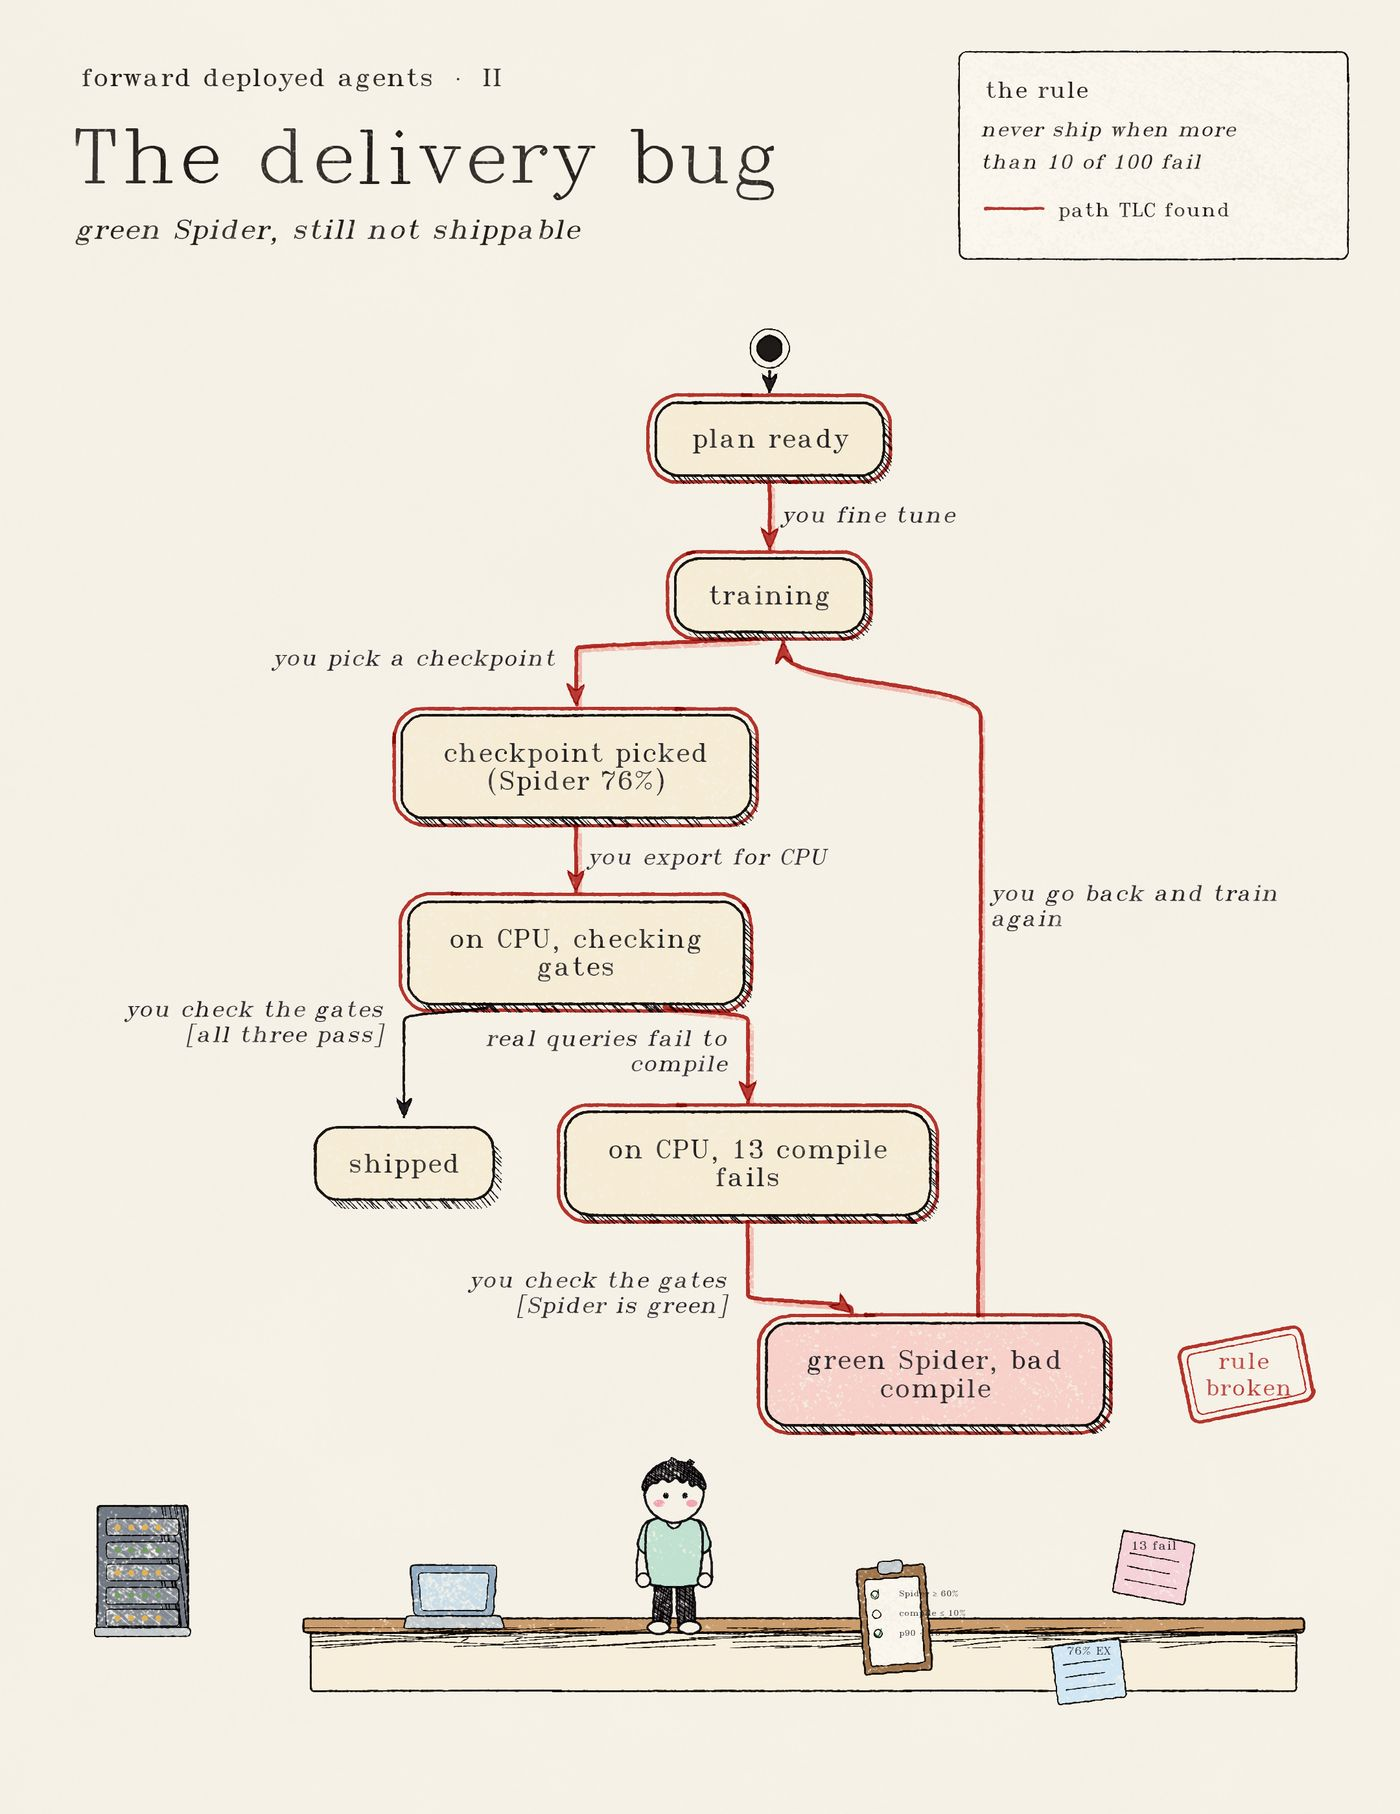
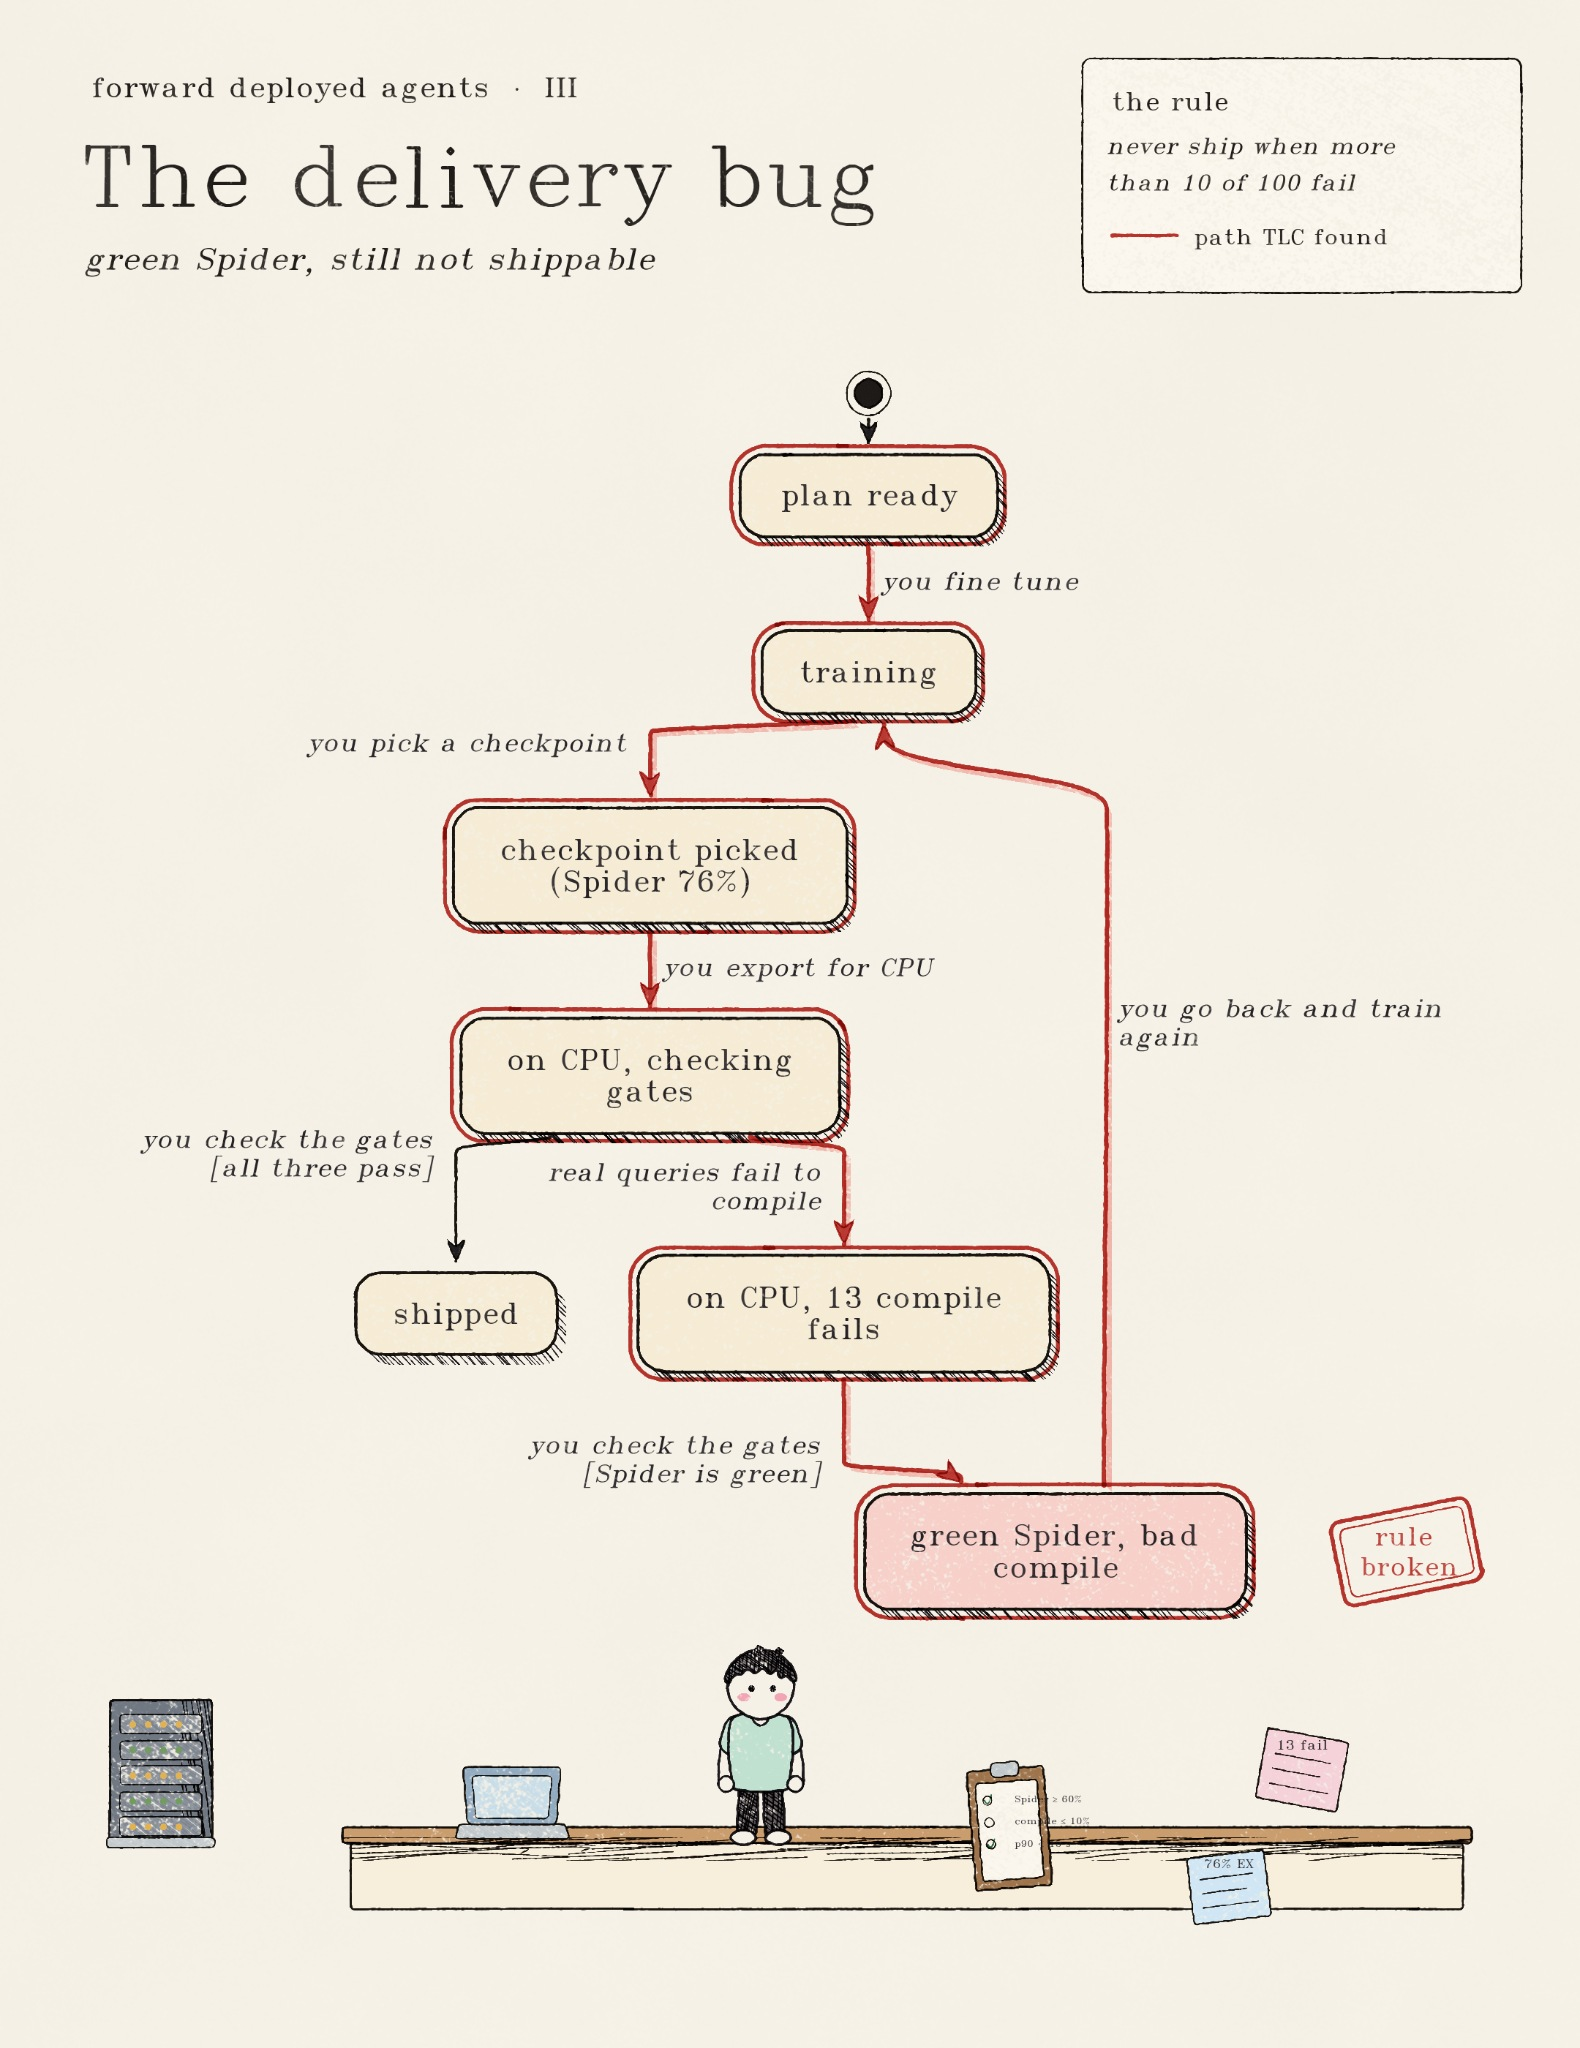
FDE article: replace paper figures with statechart and HTML tables

diff --git a/text2sql-handbook/approaches/ai-agents-forward-deployed-engineers-text-to-sql.html b/text2sql-handbook/approaches/ai-agents-forward-deployed-engineers-text-to-sql.html
@@ -87,10 +87,10 @@
           This piece walks you through that result the way I wish someone had walked me through it. Numbers come from their tables. The state charts are mine.
         </p>
       <div class="my-8">
-        <img src="../assets/images/ai-agents-forward-deployed-engineers-text-to-sql/fig1-overview.jpg"
-             alt="Figure 1 from the paper. Discovery dialogue produces a requirements document, then a planner and an execution loop post train a model and profile it on CPU."
+        <img src="../assets/images/ai-agents-forward-deployed-engineers-text-to-sql/statechart-overview.jpg"
+             alt="Plate I. The whole job. A vague brief becomes a discovery dialogue, then a requirements document, then a model checked against three gates. One path ships. The other path fails a gate and does not ship."
              class="w-full rounded-lg shadow-lg">
-        <p class="text-center text-sm text-secondary mt-2">Figure 1 from the paper. Left: the agent asks, inspects, and submits acceptance criteria. Right: plan, train, export for CPU, and check the gates.</p>
+        <p class="text-center text-sm text-secondary mt-2">Plate I. The whole job at a glance. Ask, write it down, fine tune, then clear every gate. Miss one and you did not ship.</p>
       </div>
 
         </section>
@@ -124,20 +124,32 @@
         </p>
       <div class="my-8">
         <img src="../assets/images/ai-agents-forward-deployed-engineers-text-to-sql/statechart-discovery.jpg"
-             alt="Plate I. One requirement moves from hidden to asked to disclosed, then either written down, recorded as open, or lost at handoff. The red path is the handoff leak TLC found."
+             alt="Plate II. One requirement moves from hidden to asked to disclosed, then either written down, recorded as open, or lost at handoff. The red path is the handoff leak TLC found."
              class="w-full rounded-lg shadow-lg">
-        <p class="text-center text-sm text-secondary mt-2">Plate I. The life of one requirement. Asking is cheap. Writing it down is the hard part. About one in five disclosed facts never made the final document.</p>
+        <p class="text-center text-sm text-secondary mt-2">Plate II. The life of one requirement. Asking is cheap. Writing it down is the hard part. About one in five disclosed facts never made the final document.</p>
       </div>
 
         <p>
           Across 15 models and three ambiguity levels, frontier closed models recovered about 70 to 82 percent of the hidden facts. Claude Opus 5.5 led at 81.7 percent mean recovery. Claude Opus 5 hit 81.1. Sonnet 5.5 hit 78.4. GPT 6.1 Sol sat at 75.2. Open weight models landed around 40 to 50 percent.
         </p>
-      <div class="my-8">
-        <img src="../assets/images/ai-agents-forward-deployed-engineers-text-to-sql/table1-discovery.jpg"
-             alt="Table 1 from the paper. Discovery recovery, elicitation, and ask turns across 15 models."
-             class="w-full rounded-lg shadow-lg">
-        <p class="text-center text-sm text-secondary mt-2">Table 1 from the paper. Mean recovery, elicited facts, and ask turns. The winners ask about 5 to 11 focused turns and pull about 9 to 11 facts into the dialogue.</p>
-      </div>
+        <div class="overflow-x-auto my-8"><table class="w-full text-left border-collapse"><thead><tr class="border-b border-gray-600"><th class="py-3 pr-4">Model</th><th class="py-3 pr-4">Mean recovery %</th><th class="py-3 pr-4">Elicited facts</th><th class="py-3 pr-4">Ask turns</th></tr></thead><tbody>
+<tr class="border-b border-gray-700"><td class="py-2 pr-4 align-top">Claude Opus 5.5</td><td class="py-2 pr-4 align-top">81.7</td><td class="py-2 pr-4 align-top">10.4</td><td class="py-2 pr-4 align-top">5.5</td></tr>
+<tr class="border-b border-gray-700"><td class="py-2 pr-4 align-top">Claude Opus 5</td><td class="py-2 pr-4 align-top">81.1</td><td class="py-2 pr-4 align-top">10.9</td><td class="py-2 pr-4 align-top">9.0</td></tr>
+<tr class="border-b border-gray-700"><td class="py-2 pr-4 align-top">Claude Sonnet 5.5</td><td class="py-2 pr-4 align-top">78.4</td><td class="py-2 pr-4 align-top">9.8</td><td class="py-2 pr-4 align-top">4.2</td></tr>
+<tr class="border-b border-gray-700"><td class="py-2 pr-4 align-top">GPT 6.1 Sol</td><td class="py-2 pr-4 align-top">75.2</td><td class="py-2 pr-4 align-top">9.1</td><td class="py-2 pr-4 align-top">4.6</td></tr>
+<tr class="border-b border-gray-700"><td class="py-2 pr-4 align-top">Claude Fable 5</td><td class="py-2 pr-4 align-top">73.8</td><td class="py-2 pr-4 align-top">9.1</td><td class="py-2 pr-4 align-top">5.6</td></tr>
+<tr class="border-b border-gray-700"><td class="py-2 pr-4 align-top">Grok 4.7</td><td class="py-2 pr-4 align-top">70.1</td><td class="py-2 pr-4 align-top">9.2</td><td class="py-2 pr-4 align-top">4.8</td></tr>
+<tr class="border-b border-gray-700"><td class="py-2 pr-4 align-top">GPT 5.6 Sol</td><td class="py-2 pr-4 align-top">68.4</td><td class="py-2 pr-4 align-top">9.0</td><td class="py-2 pr-4 align-top">7.1</td></tr>
+<tr class="border-b border-gray-700"><td class="py-2 pr-4 align-top">Gemini 2.5 Flash</td><td class="py-2 pr-4 align-top">57.8</td><td class="py-2 pr-4 align-top">7.1</td><td class="py-2 pr-4 align-top">4.5</td></tr>
+<tr class="border-b border-gray-700"><td class="py-2 pr-4 align-top">Gemma 4 31B</td><td class="py-2 pr-4 align-top">49.4</td><td class="py-2 pr-4 align-top">5.2</td><td class="py-2 pr-4 align-top">2.5</td></tr>
+<tr class="border-b border-gray-700"><td class="py-2 pr-4 align-top">GLM 5.3 Flash</td><td class="py-2 pr-4 align-top">46.2</td><td class="py-2 pr-4 align-top">5.1</td><td class="py-2 pr-4 align-top">3.3</td></tr>
+<tr class="border-b border-gray-700"><td class="py-2 pr-4 align-top">Grok 4.20 Reasoning</td><td class="py-2 pr-4 align-top">44.6</td><td class="py-2 pr-4 align-top">5.1</td><td class="py-2 pr-4 align-top">1.8</td></tr>
+<tr class="border-b border-gray-700"><td class="py-2 pr-4 align-top">GPT OSS 120B</td><td class="py-2 pr-4 align-top">43.6</td><td class="py-2 pr-4 align-top">4.8</td><td class="py-2 pr-4 align-top">1.7</td></tr>
+<tr class="border-b border-gray-700"><td class="py-2 pr-4 align-top">Llama 3.3 70B</td><td class="py-2 pr-4 align-top">43.4</td><td class="py-2 pr-4 align-top">5.4</td><td class="py-2 pr-4 align-top">3.6</td></tr>
+<tr class="border-b border-gray-700"><td class="py-2 pr-4 align-top">Command A</td><td class="py-2 pr-4 align-top">41.8</td><td class="py-2 pr-4 align-top">4.4</td><td class="py-2 pr-4 align-top">3.2</td></tr>
+<tr class="border-b border-gray-700"><td class="py-2 pr-4 align-top">GPT 5.4 Mini</td><td class="py-2 pr-4 align-top">40.6</td><td class="py-2 pr-4 align-top">3.8</td><td class="py-2 pr-4 align-top">1.7</td></tr>
+</tbody></table></div>
+        <p class="text-center text-sm text-secondary mt-2 mb-8">Mean recovery, elicited facts, and ask turns across 15 models. The winners ask about 5 to 11 focused turns and pull about 9 to 11 facts into the dialogue.</p>
 
         <p>
           Two habits separated the good runs from the weak ones.
@@ -179,9 +191,9 @@
         </p>
       <div class="my-8">
         <img src="../assets/images/ai-agents-forward-deployed-engineers-text-to-sql/statechart-delivery.jpg"
-             alt="Plate II. Plan, train, pick a Spider 76 percent checkpoint, export for CPU. The red path shows real queries failing to compile, then a green Spider score that still breaks the ship rule."
+             alt="Plate III. Plan, train, pick a Spider 76 percent checkpoint, export for CPU. The red path shows real queries failing to compile, then a green Spider score that still breaks the ship rule."
              class="w-full rounded-lg shadow-lg">
-        <p class="text-center text-sm text-secondary mt-2">Plate II. A green benchmark is not a ship decision. TLC's shortest bug path ends at "green Spider, bad compile."</p>
+        <p class="text-center text-sm text-secondary mt-2">Plate III. A green benchmark is not a ship decision. TLC's shortest bug path ends at "green Spider, bad compile."</p>
       </div>
 
         <p>
@@ -201,12 +213,11 @@
         <p>
           The harness alone can flip a result. Same GPT 5.6 Sol autonomous setup failed in OpenCode on latency and passed in Codex.
         </p>
-      <div class="my-8">
-        <img src="../assets/images/ai-agents-forward-deployed-engineers-text-to-sql/table3-harness.jpg"
-             alt="Table 3 from the paper. OpenCode versus Codex on the same autonomous GPT 5.6 Sol run."
-             class="w-full rounded-lg shadow-lg">
-        <p class="text-center text-sm text-secondary mt-2">Table 3 from the paper. Same model, same budget, same evaluator. Codex clears the latency gate that OpenCode misses.</p>
-      </div>
+        <div class="overflow-x-auto my-8"><table class="w-full text-left border-collapse"><thead><tr class="border-b border-gray-600"><th class="py-3 pr-4">Harness</th><th class="py-3 pr-4">Spider</th><th class="py-3 pr-4">BIRD</th><th class="py-3 pr-4">Fail %</th><th class="py-3 pr-4">p90 (s)</th><th class="py-3 pr-4">Pass</th></tr></thead><tbody>
+<tr class="border-b border-gray-700"><td class="py-2 pr-4 align-top">OpenCode</td><td class="py-2 pr-4 align-top">72.6</td><td class="py-2 pr-4 align-top">27.7</td><td class="py-2 pr-4 align-top">10</td><td class="py-2 pr-4 align-top">16.2</td><td class="py-2 pr-4 align-top">No</td></tr>
+<tr class="border-b border-gray-700"><td class="py-2 pr-4 align-top">Codex</td><td class="py-2 pr-4 align-top">75.0</td><td class="py-2 pr-4 align-top">27.2</td><td class="py-2 pr-4 align-top">10</td><td class="py-2 pr-4 align-top">10.8</td><td class="py-2 pr-4 align-top">Yes</td></tr>
+</tbody></table></div>
+        <p class="text-center text-sm text-secondary mt-2 mb-8">Same GPT 5.6 Sol autonomous run, same budget, same evaluator. Codex clears the latency gate that OpenCode misses.</p>
 
         <p>
           Reliability is thin too. Across 6 independent GPT 6.1 Sol repeats, only 1 of 6 met all acceptance criteria. Missing Hugging Face credentials, missing database credentials, and a continuation limit kill showed up alongside real acceptance misses.
